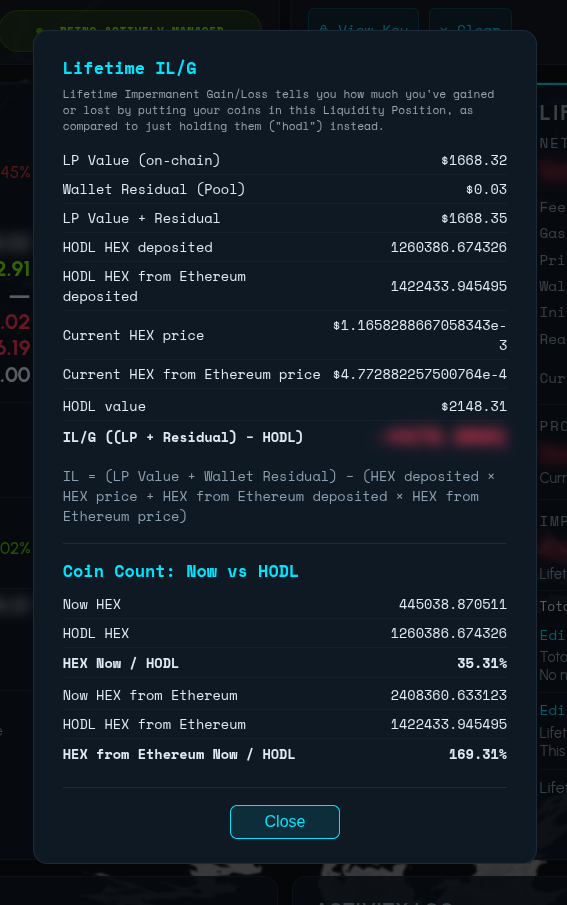
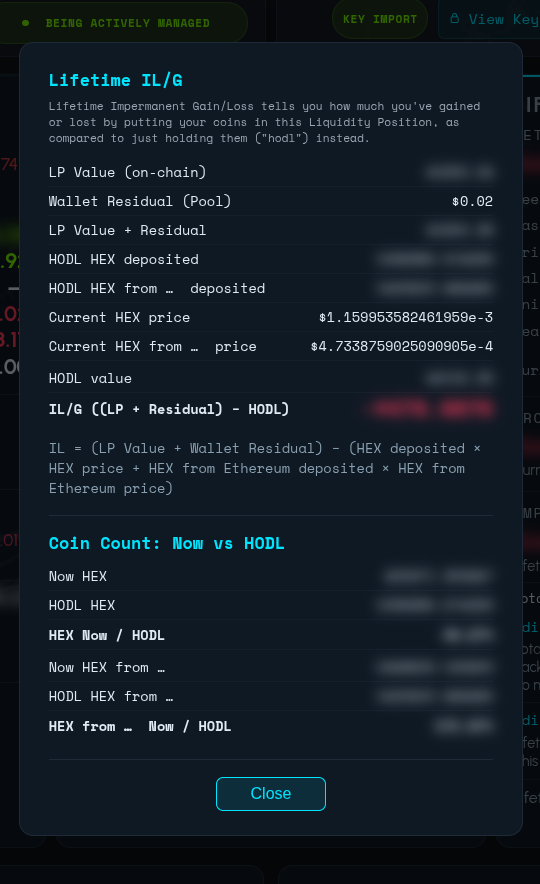
docs(gallery): add Pool Details info-dialog + refresh IL/G capture
Adds a new "Pool Details" entry to the Info Dialogs section of the
screenshot gallery (alphabetical position, between Lifetime Net
Stats and Position Offset).  Also refreshes the IL/G and Coin Count
Stats capture with the updated popover.

No TOC change — Pool Details lives inside the existing Info Dialogs
section.

diff --git a/public/screenshot-gallery.html b/public/screenshot-gallery.html
@@ -104,6 +104,11 @@
     </a>
   </figure>
   <figure class="gallery-figure">
+    <a href="images/dashboard-screenshot-info-dialog-pool-details.png">
+      <img src="images/dashboard-screenshot-info-dialog-pool-details.png" alt="Pool Details">
+    </a>
+  </figure>
+  <figure class="gallery-figure">
     <a href="images/dashboard-screenshot-info-dialog-position-offset.png">
       <img src="images/dashboard-screenshot-info-dialog-position-offset.png" alt="Position Offset">
     </a>